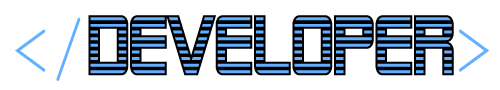
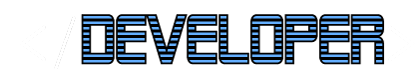
new style check

diff --git a/css/index.css b/css/index.css
@@ -14,7 +14,7 @@ body {
 	font-size: 1em;
 	position: relative;
 	text-align: center;
-	background-color: ivory;
+	background-color: black;
 }
 
 html,
@@ -192,9 +192,9 @@ header {
 	position: relative;
 	padding-top: 50px;
 	padding-bottom: 25px;
-	background: url('../img/backgrounds/keyboard2.jpg');
+	/* background: url('../img/backgrounds/keyboard2.jpg');
 	background-repeat: no-repeat;
-	background-size: 100% 50%;
+	background-size: 100% 50%; */
 	/* box-shadow: 0px 10px 10px ivory; */
 	overflow: hidden;
 }
@@ -205,7 +205,7 @@ header h1 {
 	font-size: 12vw;
 	letter-spacing: 1px;
 	color: rgb(35,35,35);
-	text-shadow: .5px .25px 0px rgb(125,0,0);
+	text-shadow: 2px 1px 0px rgb(100,175,255);
 	margin-bottom: -25px;
 	cursor: default;
 }
@@ -843,7 +843,7 @@ footer p:nth-of-type(1) {
 	
 	header h1 {
 		font-size: 7.5vw;
-		text-shadow: .75px .75px 0px rgb(125,0,0);
+		text-shadow: 2px 1px 0px rgb(100,175,255);
 		margin-top: 75px;
 		margin-bottom: 125px;
 	}

diff --git a/index.html b/index.html
@@ -45,10 +45,10 @@
 						<div id="yinyang"></div>
 					</div>
 				</div>
-				<img src="img/devHand.png" alt="Hand of a Developer" id="devHand" class="headerImg">
+				<img src="img/devHand2.png" alt="Hand of a Developer" id="devHand" class="headerImg">
 				<img src="img/desHand.png" alt="Hand of a Designer" id="desHand" class="headerImg">
 				<br>
-				<img src="img/developer.png" alt="Developer" id="dev" class="headerTitle">
+				<img src="img/developer2.png" alt="Developer" id="dev" class="headerTitle">
 				<img src="img/designer.png" alt="Designer" id="des" class="headerTitle">
 				<p class="subTitle">Thinking outside the box</p>
 			</header>
